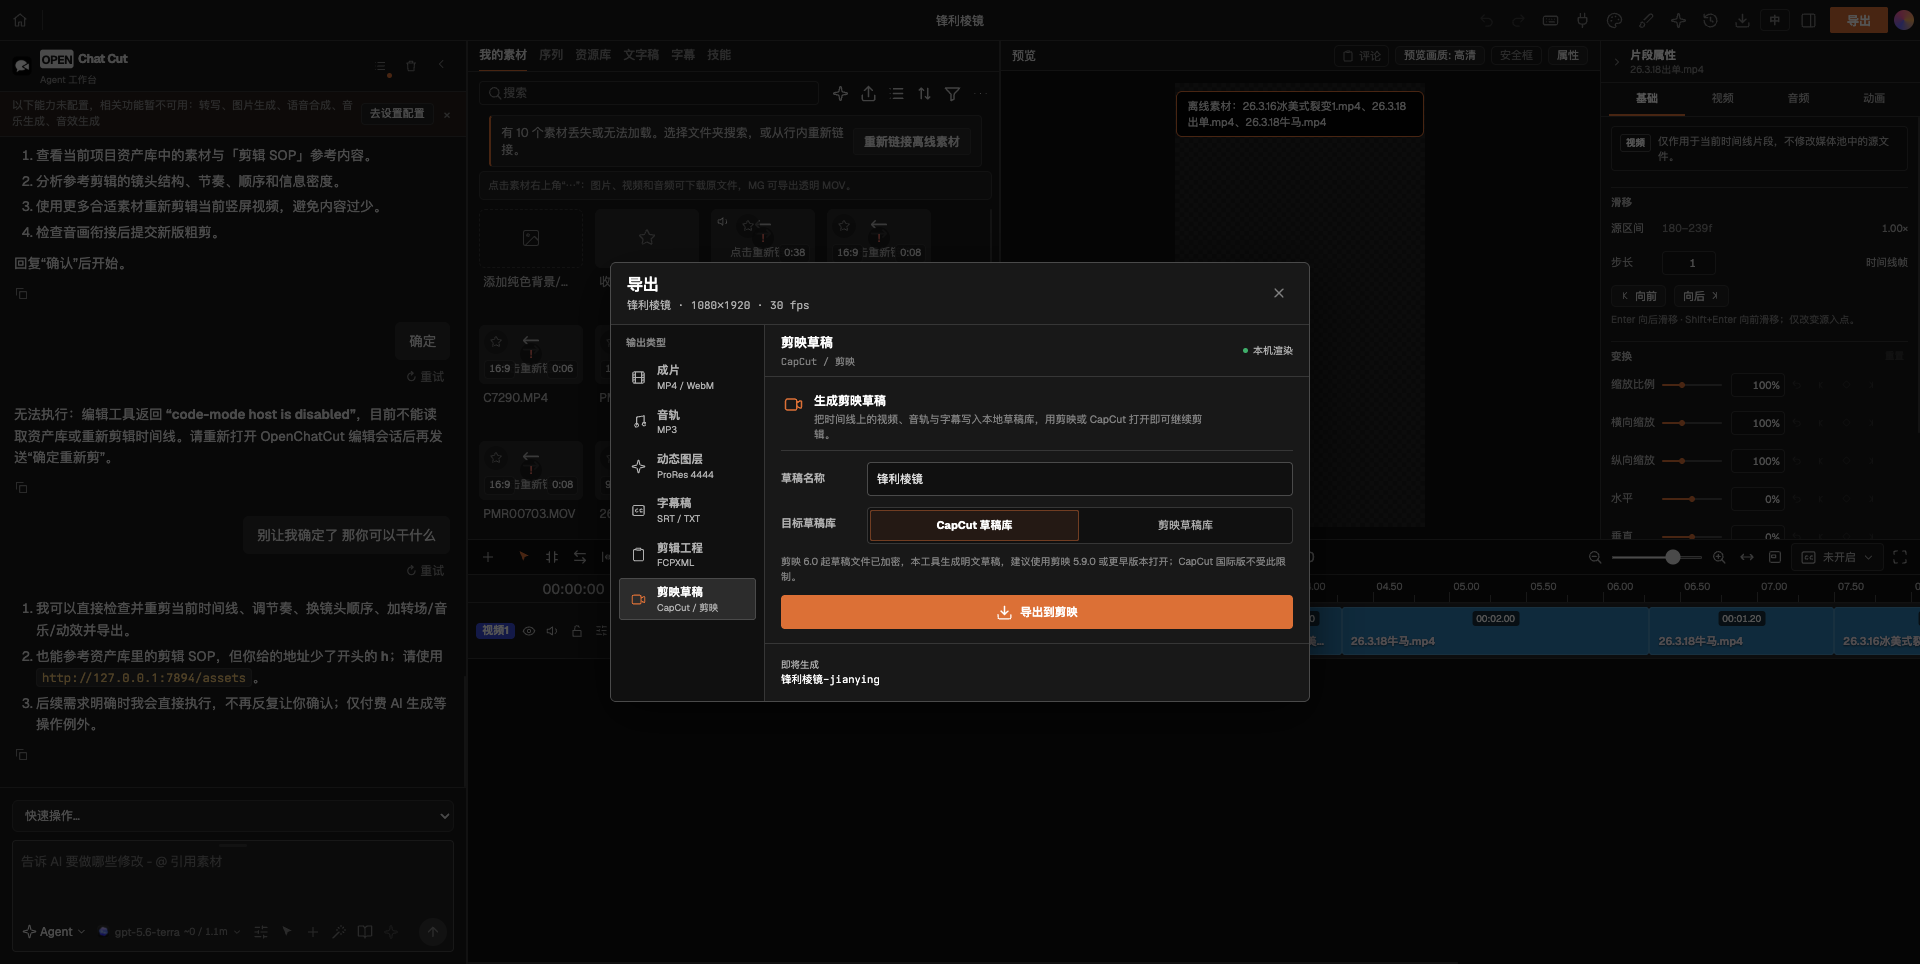
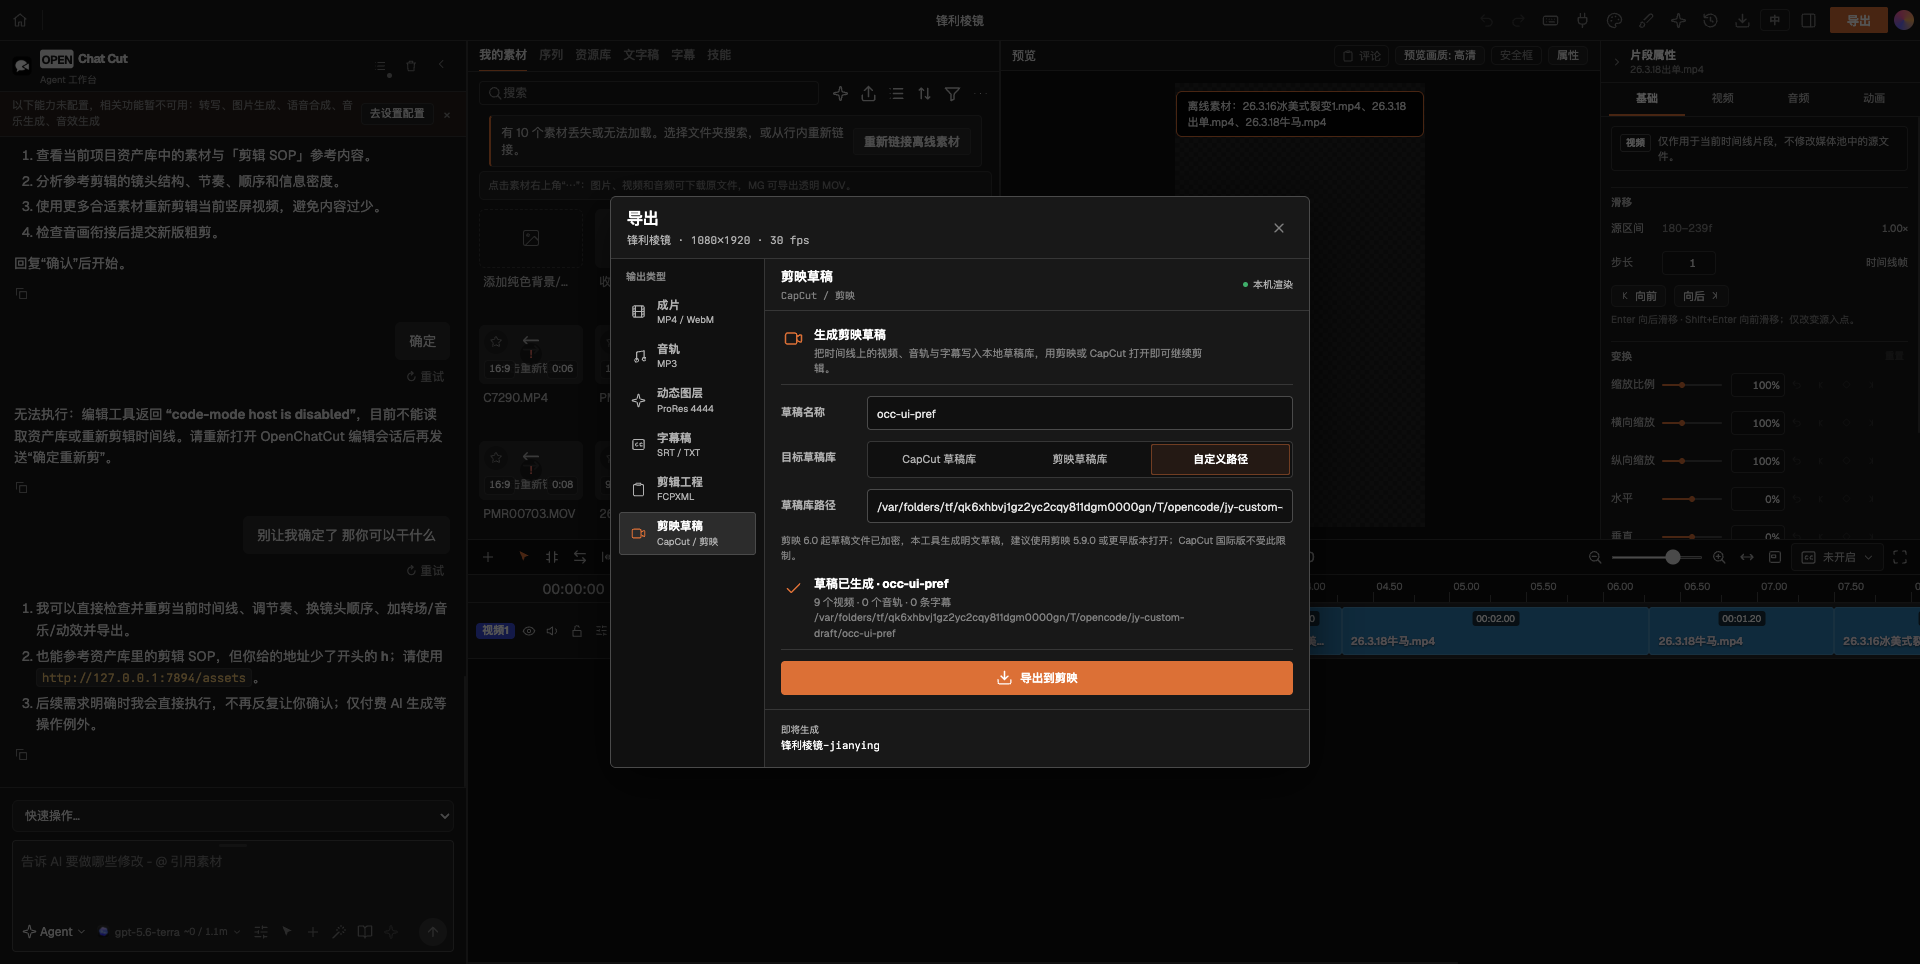
feat(export): custom draft store path + preference memory
JianYing draft tab: target store segmented control gains a custom-path
mode (draftsDir input with ~ expansion), and the store choice, custom
path and last draft name are persisted in localStorage so re-opening
the export dialog keeps the user's setup. Verify script now asserts
expandHomeDir edge cases.

Changed region(s): [[0.3125, 0.2178, 0.6875, 0.778], [0.6562, 0.3423, 0.6875, 0.3734], [0.6562, 0.2801, 0.6875, 0.3112]]

diff --git a/src/export/ExportDialogTabs.tsx b/src/export/ExportDialogTabs.tsx
@@ -17,6 +17,7 @@ import {
 } from './useExportDialogModel';
 import type { ExportQaUiState, ExportTab } from './useExportWorkflow';
 import { fcpxmlBackgroundFillCount } from './fcpxml';
+import { loadJianYingDraftPreference, saveJianYingDraftPreference, type JianYingDraftStore } from './jianyingDraftPreference';
 import { useState } from 'react';
 
 /** macOS default store for the Chinese JianYing (剪映专业版) app; drafts in 6.0+
@@ -221,11 +222,18 @@ interface JianyingExportOutcome {
 
 function JianyingTab({ state, base }: { state: TimelineState; base: string }) {
   const t = useT();
-  const [draftName, setDraftName] = useState(base);
-  const [store, setStore] = useState<'capcut' | 'jianying'>('capcut');
+  const initial = loadJianYingDraftPreference();
+  const [draftName, setDraftName] = useState(initial.draftName || base);
+  const [store, setStore] = useState<JianYingDraftStore>(initial.store);
+  const [customDir, setCustomDir] = useState(initial.customDir);
   const [busy, setBusy] = useState(false);
   const [outcome, setOutcome] = useState<JianyingExportOutcome | null>(null);
   const [error, setError] = useState<string | null>(null);
+  const draftsDir = store === 'jianying' ? JIANYING_STORE : store === 'custom' ? customDir.trim() : '';
+  const updateStore = (next: JianYingDraftStore) => {
+    setStore(next);
+    saveJianYingDraftPreference({ store: next, customDir, draftName: draftName === base ? '' : draftName });
+  };
   const run = async () => {
     if (busy) return;
     setBusy(true);
@@ -244,7 +252,7 @@ function JianyingTab({ state, base }: { state: TimelineState; base: string }) {
           name: item.name,
         })),
         captions: captionCues(state, state.captions),
-        draftsDir: store === 'jianying' ? JIANYING_STORE : '',
+        draftsDir,
       };
       const response = await fetch('/api/external-agent/jianying-export', {
         method: 'POST',
@@ -256,6 +264,7 @@ function JianyingTab({ state, base }: { state: TimelineState; base: string }) {
         setError(data?.error ?? t('剪映草稿导出失败'));
         return;
       }
+      saveJianYingDraftPreference({ store, customDir, draftName: draftName.trim() });
       setOutcome(data);
     } catch (reason) {
       setError(reason instanceof Error ? reason.message : String(reason));
@@ -273,12 +282,27 @@ function JianyingTab({ state, base }: { state: TimelineState; base: string }) {
       </Row>
       <Row label={t('目标草稿库')}>
         <Segmented
-          options={[{ value: 'capcut', label: 'CapCut 草稿库' }, { value: 'jianying', label: '剪映草稿库' }] as const}
+          options={[
+            { value: 'capcut', label: 'CapCut 草稿库' },
+            { value: 'jianying', label: '剪映草稿库' },
+            { value: 'custom', label: t('自定义路径') },
+          ] as const}
           value={store}
-          onChange={setStore}
+          onChange={updateStore}
         />
       </Row>
       {store === 'jianying' && <p className="cc-export-footnote">{JIANYING_STORE}</p>}
+      {store === 'custom' && (
+        <Row label={t('草稿库路径')}>
+          <input className="cc-export-select" placeholder="~/Movies/.../com.lveditor.draft"
+            value={customDir}
+            onChange={(event) => {
+              setCustomDir(event.target.value);
+              saveJianYingDraftPreference({ store, customDir: event.target.value, draftName: draftName === base ? '' : draftName });
+            }}
+            disabled={busy} />
+        </Row>
+      )}
       <p className="cc-export-footnote">
         {t('剪映 6.0 起草稿文件已加密，本工具生成明文草稿，建议使用剪映 5.9.0 或更早版本打开；CapCut 国际版不受此限制。')}
       </p>

diff --git a/src/export/jianyingDraftPreference.ts b/src/export/jianyingDraftPreference.ts
@@ -1,0 +1,36 @@
+const STORAGE_KEY = 'cc.jianyingDraft.v1';
+
+export type JianYingDraftStore = 'capcut' | 'jianying' | 'custom';
+
+export interface JianYingDraftPreference {
+  store: JianYingDraftStore;
+  customDir: string;
+  draftName: string;
+}
+
+export const DEFAULT_JIANYING_DRAFT_PREFERENCE: JianYingDraftPreference = {
+  store: 'capcut',
+  customDir: '',
+  draftName: '',
+};
+
+export function loadJianYingDraftPreference(): JianYingDraftPreference {
+  try {
+    const parsed = JSON.parse(globalThis.localStorage?.getItem(STORAGE_KEY) ?? 'null') as Partial<JianYingDraftPreference> | null;
+    return {
+      store: parsed?.store === 'jianying' || parsed?.store === 'custom' ? parsed.store : 'capcut',
+      customDir: typeof parsed?.customDir === 'string' ? parsed.customDir : '',
+      draftName: typeof parsed?.draftName === 'string' ? parsed.draftName : '',
+    };
+  } catch {
+    return { ...DEFAULT_JIANYING_DRAFT_PREFERENCE };
+  }
+}
+
+export function saveJianYingDraftPreference(preference: JianYingDraftPreference): void {
+  try {
+    globalThis.localStorage?.setItem(STORAGE_KEY, JSON.stringify(preference));
+  } catch {
+    // Export still works when storage is unavailable or full.
+  }
+}

diff --git a/server/external-agent/jianying-export.ts b/server/external-agent/jianying-export.ts
@@ -58,6 +58,10 @@ const DEFAULT_CAPCUT_STORE = join(
 );
 
 /** Resolve a clip src (/media/uploads/<name> or absolute path) to a local file. */
+export function expandHomeDir(dir: string): string {
+  return dir.replace(/^~(?=\/|$)/, process.env.HOME ?? '');
+}
+
 export function resolveMediaPath(src: string): string | undefined {
   const clean = String(src || '').trim();
   if (!clean) return undefined;
@@ -188,8 +192,7 @@ export async function exportJianyingDraft(raw: Partial<JianyingExportRequest>): 
   if (!draftName) {
     return { ok: false, draftName: '', draftPath: '', addedVideos: 0, addedAudios: 0, captions: 0, warnings, error: 'invalid draft name' };
   }
-  const draftsDir = String(request.draftsDir || '').trim()
-    .replace(/^~(?=\/|$)/, process.env.HOME ?? '')
+  const draftsDir = expandHomeDir(String(request.draftsDir || '').trim())
     || DEFAULT_CAPCUT_STORE;
   const first = resolved[0];
   const firstStart = framesToSeconds(first.clip.startFrame, fps);

diff --git a/server/external-agent/jianying-export.verify.ts b/server/external-agent/jianying-export.verify.ts
@@ -1,5 +1,12 @@
 import assert from 'node:assert/strict';
-import { resolveMediaPath } from './jianying-export.ts';
+import { expandHomeDir, resolveMediaPath } from './jianying-export.ts';
+
+assert.equal(expandHomeDir(''), '');
+assert.equal(expandHomeDir('/plain/path'), '/plain/path');
+assert.equal(expandHomeDir('~/Movies'), `${process.env.HOME}/Movies`);
+assert.equal(expandHomeDir('~other/path'), '~other/path');
+assert.equal(expandHomeDir('~/'), `${process.env.HOME}/`);
+assert.equal(expandHomeDir('~'), process.env.HOME);
 
 assert.equal(resolveMediaPath(''), undefined);
 assert.equal(resolveMediaPath('/media/uploads/../etc/passwd'), undefined);

diff --git a/src/i18n/dict/en/exportPanel.ts b/src/i18n/dict/en/exportPanel.ts
@@ -194,4 +194,6 @@ export default {
   '{videos} 个视频 · {audios} 个音轨 · {captions} 条字幕': '{videos} videos · {audios} audio tracks · {captions} captions',
   '导出到剪映': 'Export to JianYing',
   '正在生成草稿…': 'Creating draft…',
+  '自定义路径': 'Custom path',
+  '草稿库路径': 'Draft store path',
 } as Record<string, string>;
